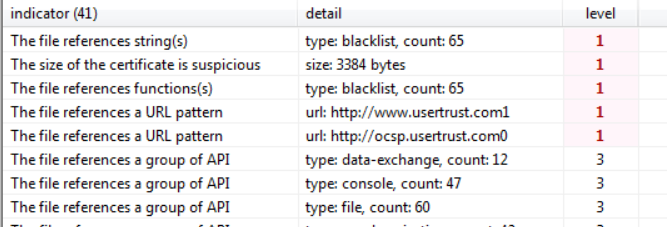
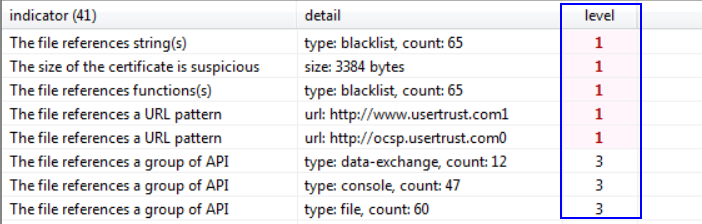
emo

diff --git a/_posts/MA/2022-01-06-emotet-part-1.md b/_posts/MA/2022-01-06-emotet-part-1.md
@@ -46,6 +46,104 @@ Shows that it has **high** entropy in **.text** section which is an indicator to
 
 ## Indicators section:
 ![This is an image](/assets/images/MA/6.png)
+*Level 1 is most malicious and bigger numbers “3” are less malicious
+Shows different malicious indicators that help us in the analysis
+
+##  Sections section:
+![This is an image](/assets/images/MA/7.png)
+
+**The previous figure shows:**
+    1- .text section is packed
+    2- .text section contains the entry point for the executable. This means that, in addition to
+        holding the compressed data, .text section also contains the stub code responsible for
+        unpacking.
+        *The section which is responsible for unpacking can vary as in UPX packing
+    3- .text section is executable
+    4- .data section is writable
+
+## Strings section: *press over “blacklist” to list them 
+![This is an image](/assets/images/MA/8.png)
+Strings are good indicators to know what this malware is trying to do on the system
+
+# IDA analysis
+
+To analyze the assemble code to know how to unpack and where to start the debugging
+Open it in IDA: It shows that is low number of functions which another indicator that is packed
+![This is an image](/assets/images/MA/9.png)
+
+Press over “start” which located in the function as in the previous figure to get started
+![This is an image](/assets/images/MA/10.png)
+
+This sample of Emotet uses a customized packer. Instead of trying to reverse the algorithm to
+unpack the next stage, we can use **dynamic analysis**. We will let the malware do the unpacking
+for me and grab the next stage out of memory. **The process will need to allocate memory for**
+**the next stage**. so it’s a good assumption that we will see a **call to VirtualAlloc**.
+We need to search which function has VirtualAlloc call.
+If you searched you will find that **call sub_417D50** is the unpacking routine
+![This is an image](/assets/images/MA/11.png)
+
+This our unpacking function: **sub_417D50**
+![This is an image](/assets/images/MA/12.png)
+
+First we need to clear **what normal epilogue and prologue are?**
+
+The procedure prologue and epilogue are standard initialization sequences that compilers
+generate for almost all of their functions
+
+![This is an image](/assets/images/MA/13.png)
+
+What is **NOT normal** here is epilogue in the last figure:
+![This is an image](/assets/images/MA/14.png)
+
+you don't push anything before ret this called abnormal.
+normal epilogue is to pop EBP before ret. Here it will return ecx because it executes the last
+instruction- top of the stackAnd the real return is from this function loc_417D9A because this is 2nd top of the stack
+
+you don't push anything before ret this called abnormal.
+normal epilogue is to pop EBP before ret. Here it will return ecx because it executes the last
+instruction- top of the stackAnd the real return is from this function loc_417D9A because this is 2nd top of the stack
+
+We need to know what is happening in this function?
+
+![This is an image](/assets/images/MA/15.png)
+
+**In the last figure we see the coming:**
+    VirtualAlloc is moved to ECX, then
+    ECX is moved to dword_41C218, then
+    dword_41C218 is moved to ECX
+    then push ECX and then ret
+    And the real return is from this function loc_417D9A
+
+So we need to know the address of this function to set a Breakpoint in x64dbg by pressing "space"
+![This is an image](/assets/images/MA/16.png)
+
+We know that code is packed. We search for abnormal jumps:
+    jump or call Instructions to registers
+    Jump to strange memory addresses (long jump)
+
+Why searching for abnormal jumps? For many packers, the address to the location of where data is
+being unpacked to is stored in a register (such as ecx), and that memory address is often in an entirely
+different section
+
+**I will write an article about “indicators of packed file”. Inshallah**
+
+If we return to **start function** and search you will find it
+Here we see our abnormal jmp ecx:
+
+![This is an image](/assets/images/MA/17.png)
+
+Press “space” to get its address: 00417F1F
+![This is an image](/assets/images/MA/18.png)
+
+
+
+
+
+
+
+
+
+
 
 
 
